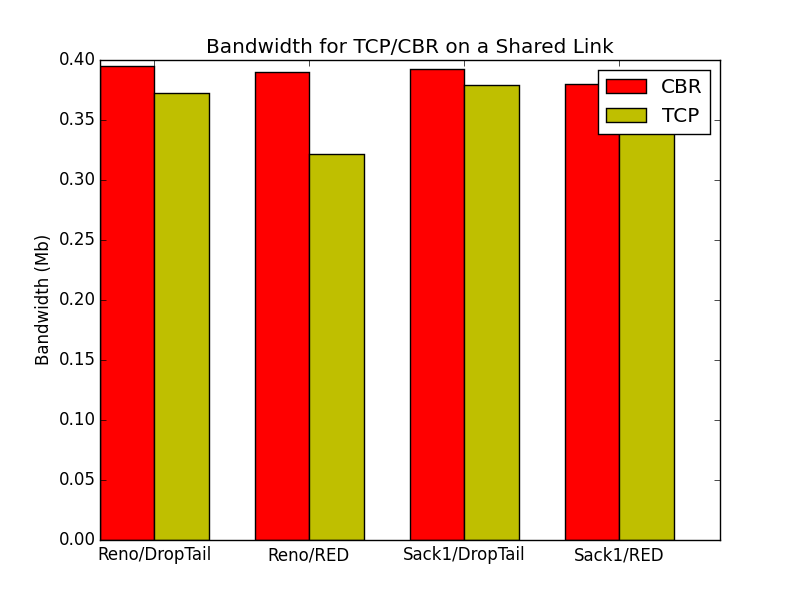
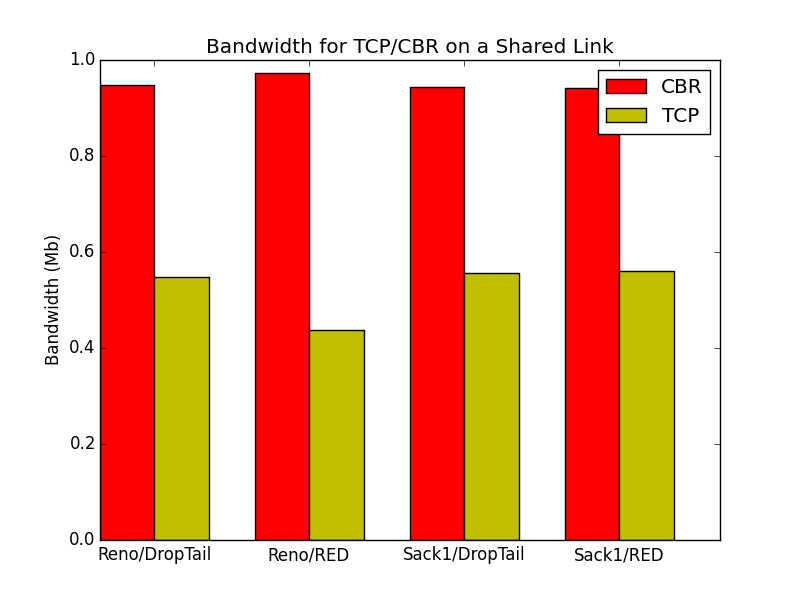
Redid plots for part 2

diff --git a/part2.2/parse.py b/part2.2/parse.py
@@ -1,7 +1,7 @@
 import matplotlib.pyplot as plt
 import numpy as np
 
-def parseBandwidth(filename,time=10, numflows=3):
+def parseBandwidth(filename,time=5, numflows=3):
   bws = [0.0,0.0,0.0]
   bws = []
   for i in range(0, numflows):
@@ -11,6 +11,8 @@ def parseBandwidth(filename,time=10, numflows=3):
   for line in lines:
     words = line.split()
     if words[2] == "*":
+      continue
+    if float(words[2]) > 5.5:
       continue
     event = words[0]
     source = int(words[4])
@@ -82,6 +84,8 @@ def parseLatency(filename, numflows=3):
     words = line.split()
     if words[2] == "*":
       continue
+    if float(words[2]) > 5.5:
+      continue
     event = words[0]
     time = float(words[2])
     source = int(words[4])
@@ -133,6 +137,7 @@ def main():
     for i in range(0, len(lat)):
       latency[i].append(lat[i])
   print latency
+  print bw
   N = 2
   width = .35
   ind = np.arange(N)

diff --git a/part2.1/Reno/parse.py b/part2.1/Reno/parse.py
@@ -10,10 +10,11 @@ def parseBandwidth(filename,time=4, numflows=3):
     lines = f.readlines()
   for line in lines:
     words = line.split()
-    time = words[2]
-    if time == "*":
+    if words[2] == "*":
       continue
-    if float(time) < 1.5:
+    if float(words[2]) < 1.5:
+      continue
+    if float(words[2]) > 5.5:
       continue
     event = words[0]
     source = int(words[4])
@@ -51,6 +52,8 @@ def parsePacketLoss(filename, numflows=3):
     if time == "*":
       continue
     if float(time) < 1.5:
+      continue
+    if float(time) > 5.5:
       continue
     event = words[0]
     source = int(words[4])
@@ -98,7 +101,8 @@ def main():
     b = parseBandwidth(file, numflows=2)
     for i in range(0, len(b)):
       bw[i].append(b[i])
-
+  print bw
+  print loss
   N = 4
   width = .35
   ind = np.arange(N)
